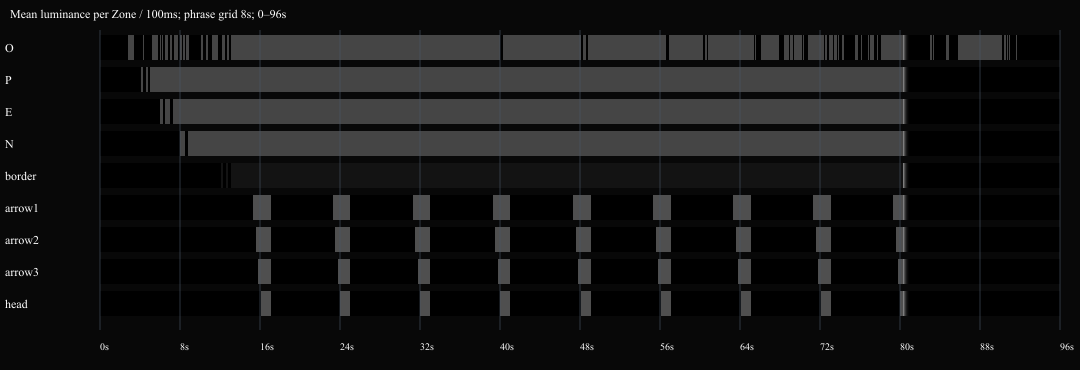
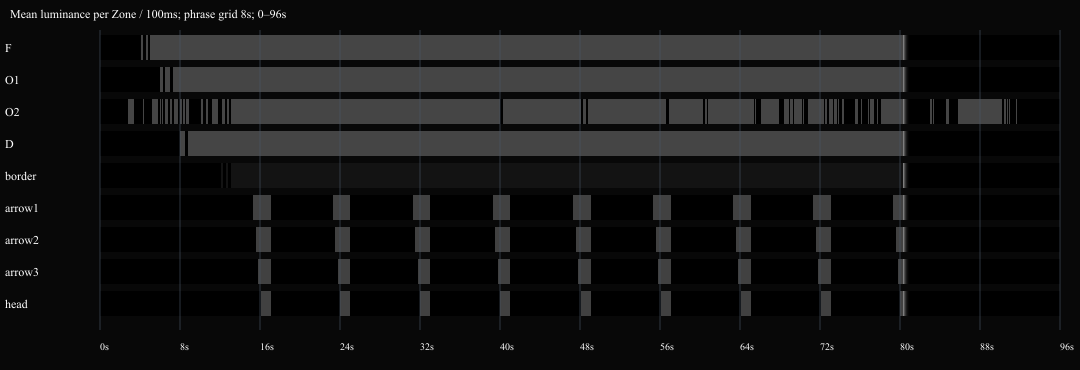
#1192 Revise the After Hours plan for the FOOD sign
Jon chose FOOD, with the second O failing, and approved the packet and
plan with NeonTube as a Show ingredient. The plan records those
decisions and takes its numbers from the prototype rebuilt on a 442-pixel
FOOD map: Zone ranges, the 46,511 B artifact, 1,338 words, 13.6% flash
area and about 16 A at 0.6 white. The storyboard and score strip are
re-rendered on that map, with the arrow at its planned 0.7 opacity, and
the FOOD legibility render replaces the OPEN and PXLBLZ ones.

X-Session-Id: claude:8e608997-73e9-5fdd-bdb2-087bd00eb483

diff --git a/docs/plans/after-hours-show.md b/docs/plans/after-hours-show.md
@@ -1,17 +1,19 @@
 # After Hours: Visual Direction Packet and Visual Performance Plan
 
-Design proposal for #1192 (parent #1191), awaiting Jon's approval. Nothing here
-is as-built: no stock map, Pattern or Show builder change lands under #1192. The
-build is a separate `work:implementation` child cut from the approved plan.
+Design for #1192 (parent #1191), approved by Jon with the
+[decisions](#decisions) below. Nothing here is as-built: no stock map, Pattern
+or Show builder change lands under #1192. The build is a separate
+`work:implementation` child cut from this plan.
 
-**Recommendation in one paragraph.** Build After Hours as an Installation Show on
-a new 2D sign map reading **OPEN**, with the **O** as the failing letter. The
-sign is nine physical Zones (four letters, a border of bulbs, three arrow-shaft
-segments and an arrow head) driven by three Pattern instances: one shared steady
-tube, one private failing tube, and one stepped LumaMarquee chase. Every event
-is a property-track key inside Clips that span the whole Show, so it compiles to
-one time section with no Transition; the short is a white color-map keyed on
-every Clip. One new Pattern, NeonTube, is needed. The measured budgets are in the [cost envelope](#cost-envelope).
+**The design in one paragraph.** Build After Hours as an Installation Show on a
+new 2D sign map reading **FOOD**, with the **second O** as the failing letter.
+The sign is nine physical Zones (four letters, a border of bulbs, three
+arrow-shaft segments and an arrow head) driven by three Pattern instances: one
+shared steady tube, one private failing tube, and one stepped LumaMarquee chase.
+Every event is a property-track key inside Clips that span the whole Show, so it
+compiles to one time section with no Transition; the short is a white color-map
+keyed on every Clip. One new Pattern, NeonTube, is needed. The measured budgets
+are in the [cost envelope](#cost-envelope).
 
 The packet refines the ideation draft recorded in #1192 rather than restarting
 it; [what changed](#what-changed-from-the-draft) lists each refinement.
@@ -108,13 +110,13 @@ lamp igniting alone.
 
 | Section | Phrases | Time | What happens |
 | --- | --- | --- | --- |
-| Dark and warm-up | 1-2 | 0-16 s | 2 s of black. The O sputters first; P, E and N ignite cleanly on successive bars; the border ignites and starts its chase; the O, out of turn, is the last letter to catch. The arrow's first firing lands on the 16 s downbeat: the sign is open. |
+| Dark and warm-up | 1-2 | 0-16 s | 2 s of black. The second O sputters first; F, the first O and D ignite cleanly on successive bars, skipping its turn; the border ignites and starts its chase; the second O is the last letter to catch. The arrow's first firing lands on the 16 s downbeat: the diner is open. |
 | Steady | 3-5 | 16-40 s | The ordinary frame. The arrow fires each phrase; nothing else happens. |
-| Hint | 6-7 | 40-56 s | At the arrow's tip the O drops out for one step; next phrase, twice. Short enough to doubt. |
-| Failure | 8-10 | 56-80 s | Three held stages. First the dips become bursts, still on the arrow's beat. Then the arrow fires and the O does not answer; it fails on its own time, off the grid. Then it arcs, broken more than lit. Then it steadies: for a moment the sign is whole. |
+| Hint | 6-7 | 40-56 s | At the arrow's tip the second O drops out for one step; next phrase, twice. Short enough to doubt. |
+| Failure | 8-10 | 56-80 s | Three held stages. First the dips become bursts, still on the arrow's beat. Then the arrow fires and the second O does not answer; it fails on its own time, off the grid. Then it arcs, broken more than lit. Then it steadies: for a moment the sign is whole. |
 | The short | at 80 s | 80-81 s | The arrow's last firing reaches its tip and the whole sign flashes white and dies. The only white and the only simultaneous event. |
-| Afterglow | 11 | 81-92 s | About 2 s of black. The O alone buzzes back, catches and holds a breath, then stutters out. |
-| Out | 12 | 92-96 s | Black. The loop restarts with the O, the first to try again: the survivor is first and last. |
+| Afterglow | 11 | 81-92 s | About 2 s of black. The second O alone buzzes back, catches and holds a breath, then stutters out. |
+| Out | 12 | 92-96 s | Black. The loop restarts with the second O, the first to try again: the survivor is first and last. |
 
 ### Invariants
 
@@ -205,7 +207,7 @@ column scores this packet.
 | Motion grammar | 2 | 3 | The arrow becomes the fault's fuse, so march and fail interlock instead of running side by side. One verb serves ignition, failure, the short and the return. |
 | Temporal form | 2 | 3 | Cause, then decoupling, arcing, false recovery, the short and the return, with the survivor closing the loop seam. The draft's failure escalated without a cause. |
 | Restraint | 2 | 3 | Healthy lamps are dead steady and white happens once. The breathing texture and the sag are gone. |
-| Ordinary frame | 3 | 3 | Iconic: the steady frame is the archetypal lit OPEN sign, and the afterglow's lone ring reads as a symbol. Both read in the storyboard's prototype renders. |
+| Ordinary frame | 3 | 3 | Iconic: the steady frame is the archetypal roadside FOOD sign, and the afterglow's lone ring reads as a symbol. Both read in the storyboard's prototype renders. |
 | Surprise | 3 | 3 | The broken letter survives the healthy ones; the false recovery sharpens the rupture, and the return closes it. |
 
 ### What changed from the draft
@@ -226,31 +228,30 @@ column scores this packet.
    phrases.
 10. The storyboard adds the short.
 
-## Decisions for Jon
+## Decisions
 
-These halt the build until Jon answers them on #1192.
+Jon decided these on #1192 before the build child was cut.
 
-1. **The sign word.** I recommend **OPEN**, with the **O** failing.
-   - OPEN is the archetypal neon word, so the steady frame reads as "a neon
-     sign" at once, and an OPEN sign after hours is the title's joke.
-   - A lone O ring is the strongest survivor silhouette: a closed shape that
-     reads as a symbol on its own, not a fragment of a word.
-   - Four letters get 60 to 72 pixels each at 463 pixels in total, which leaves
+1. **The sign word is FOOD, with the second O failing.** Jon chose FOOD because
+   it is emblematic of the highway, the open road, diners and Americana.
+   - The steady frame reads as a roadside diner sign at once.
+   - The failing letter is third in reading order, so the warm-up visibly skips
+     its turn: F, the first O and D ignite on successive bars while the second
+     O still sputters. The healthy first O beside it is a control sample.
+   - The survivor is a lone O ring, the strongest survivor silhouette: a closed
+     shape that reads as a symbol on its own, not a fragment of a word.
+   - Four letters get 50 to 67 pixels each at 442 pixels in total, which leaves
      frame-rate headroom.
-   - The cost: the O is first in reading order, so its break is in completion,
-     not in start. It starts in turn and catches last. A middle letter would
-     break the order more visibly but leave a weaker survivor.
-   - The alternative is **PXLBLZ**: a self-portrait and booth piece, 560 pixels
-     at the same stroke density. A failing **Z** gives a zigzag survivor and a
-     sleep-and-spark pun; the draft's second **L** gives the healthy twin as a
-     control sample but the weakest lone silhouette. The legibility renders,
-     `docs/plans/images/after-hours-open-legibility.png` and
-     `docs/plans/images/after-hours-pxlblz-legibility.png`, show both words.
-2. **Approval of the packet and this plan** before the build child is cut.
-3. **NeonTube's home.** I recommend a Show ingredient, kept in the Pattern rail
-   and out of the Gallery like the Luma family. Alone it is one grey tube, and
-   its character comes from the Show's Health envelope. Its Health control
-   still serves builders' own Shows.
+   - The alternatives were **OPEN** with its O failing, the archetypal neon
+     word, whose failing letter is first in reading order and so breaks the
+     order only in completion; and **PXLBLZ**, a self-portrait at 560 pixels
+     with a failing Z or second L. The legibility render,
+     `docs/plans/images/after-hours-food-legibility.png`, draws the FOOD map.
+2. **The packet and this plan are approved.** The build child is cut from them.
+3. **NeonTube is a Show ingredient**, kept in the Pattern rail and out of the
+   Gallery like the Luma family. Alone it is one grey tube, and its character
+   comes from the Show's Health envelope. Its Health control still serves
+   builders' own Shows.
 
 ## Visual Performance Plan
 
@@ -268,7 +269,7 @@ costs. The [probe record](#probe-record) has the commands and raw results.
 
 - **Artifact:** an Installation Show in the Installations collection, with an
   installation output contract on a new stock 2D map (working id
-  `after-hours-sign`) at exactly 463 pixels.
+  `after-hours-sign`) at exactly 442 pixels.
 - **Duration:** 96 s, a deterministic loop.
 - **Controller:** Pixelblaze 3 (pb32 class, firmware 3.67, the hardware behind
   the measured anchors). Exploratory, but specified so it can be built as a
@@ -277,13 +278,13 @@ costs. The [probe record](#probe-record) has the commands and raw results.
 
 | Zone | Lamp | Index range | Pixels |
 | --- | --- | ---: | ---: |
-| O | letter tube | 0-59 | 60 |
-| P | letter tube | 60-119 | 60 |
-| E | letter tubes (outline, then middle arm) | 120-185 | 66 |
-| N | letter tube | 186-257 | 72 |
-| border | 141 bulbs, clockwise from top left | 258-398 | 141 |
-| arrow1, arrow2, arrow3 | shaft segments, tail first | 399-446 | 16 each |
-| head | chevron | 447-462 | 16 |
+| F | letter tubes (top and stem, then middle arm) | 0-49 | 50 |
+| O1 | letter tube | 50-109 | 60 |
+| O2 | letter tube, the failing letter | 110-169 | 60 |
+| D | letter tube | 170-236 | 67 |
+| border | 141 bulbs, clockwise from top left | 237-377 | 141 |
+| arrow1, arrow2, arrow3 | shaft segments, tail first | 378-425 | 16 each |
+| head | chevron | 426-441 | 16 |
 
 **Map layout.** The word is drawn in a single-stroke tube font with the letter
 box 1.0 high and 0.7 wide, letters 0.25 apart. Pixels sit at a uniform pitch of
@@ -351,8 +352,8 @@ controls, Health and Seed.
   blue. Measured: exactly every third bulb is lit, and the lit set advances one
   index per step.
 - **The short:** a second, white color-map on every Clip. Its amount jumps to 1
-  at 80.25 s. Then opacity decays on a cubic-out curve to 0 by 81.05 s; on the O,
-  the white amount decays instead, so the O can return. There is no Transition.
+  at 80.25 s. Then opacity decays on a cubic-out curve to 0 by 81.05 s; on the
+  second O, the white amount decays instead, so it can return. There is no Transition.
 - **Colour:** tint color-maps from black to the colour. Letters run to
   (1, 0.08, 0.02); furniture to (0.16, 0.36, 1) at opacity 0.6 for the border
   and 0.7 for the arrow. By Rec. 709 luminance both stay below the word: 0.22
@@ -360,14 +361,14 @@ controls, Health and Seed.
   wrong for colour: it would erase the tube's on and off and the chase's bulbs.
 - **The short's white** is the one solid color-map, (0.6, 0.6, 0.6). Erasing
   the source is its job: at amount 1, every pixel of every lamp turns white at
-  once, the unlit bulbs and the dark O included.
+  once, the unlit bulbs and the dark second O included.
 
 ### State and identity plan
 
 | Instance | Pattern | Serves | Why it has its own identity |
 | --- | --- | --- | --- |
-| `tube` | NeonTube, Health 1 | P, E, N, arrow1-3, head | Shared: these lamps have no private state, and their timing lives on their Clips |
-| `weak` | NeonTube, Seed 0.37, Health track | O | Private: its Health is the story |
+| `tube` | NeonTube, Health 1 | F, O1, D, arrow1-3, head | Shared: these lamps have no private state, and their timing lives on their Clips |
+| `weak` | NeonTube, Seed 0.37, Health track | O2 | Private: its Health is the story |
 | `chase` | LumaMarquee, stepped 250 ms | border | Its own clock is the grid |
 
 There is one Clip per Zone on its Main Layer. All nine Clips span the whole 96
@@ -379,12 +380,12 @@ s, and every track is active for its Clip's lifetime, so the Show compiles to
 | Ledger | Budget | Planned peak | Evidence or uncertainty |
 | --- | ---: | ---: | --- |
 | Pattern/source bytes | none set | NeonTube about 0.6 KB | Probe source |
-| Production artifact bytes | 68,384 B activation proxy (`test/perf-harness/issue514.test.ts`) | 46,615 B | Measured. Bytes barely depend on pixel count: 45,936 B at 286 pixels |
-| Globals and array words | 256 globals; 10,240 words | 116 globals; 1,401 (8,839 remaining) words | Measured |
-| Render-target words | 3 × (N + 4) | 1,401 at 463 pixels | Ledger formula, `src/engine/showVmResourceLedger.ts:3-8` |
-| Active Pattern evaluations | 5 renderers per pixel | 1 per pixel, always: 463 per frame | Score structure: no Transition, no overlay Layer |
+| Production artifact bytes | 68,384 B activation proxy (`test/perf-harness/issue514.test.ts`) | 46,511 B | Measured. Bytes barely depend on pixel count: earlier prototype maps measured 46,615 B at 463 pixels and 45,936 B at 286 pixels |
+| Globals and array words | 256 globals; 10,240 words | 116 globals; 1,338 (8,902 remaining) words | Measured |
+| Render-target words | 3 × (N + 4) | 1,338 at 442 pixels | Ledger formula, `src/engine/showVmResourceLedger.ts:3-8` |
+| Active Pattern evaluations | 5 renderers per pixel | 1 per pixel, always: 442 per frame | Score structure: no Transition, no overlay Layer |
 | Expensive operations per active pixel | none set | Two color-maps and an opacity per pixel; LumaMarquee's crest on the 141 border pixels; NeonTube writes a constant | Score structure |
-| Frame time or FPS | 15 FPS working floor (proposed) | About 20-35 FPS estimated | Estimate, not a measurement. It scales the per-pixel cost of measured pb32 anchors (Vignette 63.5 / 16.4 / 8.2 FPS at 256 / 1,000 / 2,000 pixels; simple Shows 38-40 FPS at 256 pixels; output alone about 30 µs per pixel) to 463 pixels with one evaluation each. `npm run devbench` in the build replaces it |
+| Frame time or FPS | 15 FPS working floor (proposed) | About 20-35 FPS estimated | Estimate, not a measurement. It scales the per-pixel cost of measured pb32 anchors (Vignette 63.5 / 16.4 / 8.2 FPS at 256 / 1,000 / 2,000 pixels; simple Shows 38-40 FPS at 256 pixels; output alone about 30 µs per pixel) to 442 pixels with one evaluation each. `npm run devbench` in the build replaces it |
 
 **Marginal costs**, measured on a synthetic nine-Zone Installation of 583
 pixels:
@@ -408,12 +409,12 @@ Show adds two boundaries.
 - about 4 KB for Effects.
 
 The arrow is the most expensive voice, at about 12 KB for 80 keys and four
-tracks. The headroom under the activation proxy is 21,769 B, about 180
+tracks. The headroom under the activation proxy is 21,873 B, about 180
 more keys.
 
 **Flash limit.** Measured with the harness algorithm at 30 fps
 (`src/agent-harness/telemetry/harness.ts`).
-- The worst one-second window has 13.0% of the pixels flashing above 3 Hz,
+- The worst one-second window has 13.6% of the pixels flashing above 3 Hz,
   against the 25% limit.
 - The fault flickers fast, but only inside one letter, so it stays under the
   area limit by construction.
@@ -429,15 +430,15 @@ no Clip edge, Transition or partial track window falls inside the Show.
 
 | Section | Time | Mechanism |
 | --- | --- | --- |
-| Dark and warm-up | 0-16 s | The O's Health keys start its sputter at 2 s, and it catches at 13 s. Held opacity keys ignite P at 4 s, E at 6 s, N at 8 s and the border at 12-13 s. The chase runs from its first lit step. The first arrow firing runs 15.25-16 s. |
+| Dark and warm-up | 0-16 s | O2's Health keys start its sputter at 2 s, and it catches at 13 s. Held opacity keys ignite F at 4 s, O1 at 6 s, D at 8 s and the border at 12-13 s. The chase runs from its first lit step. The first arrow firing runs 15.25-16 s. |
 | Steady | 16-40 s | Only the arrow's opacity keys, with tips at 24 and 32 s. |
-| Hint | 40-56 s | The O's Health drops to 0 for one step at the 40 s tip; at 48 s it drops out twice, a step apart. |
+| Hint | 40-56 s | O2's Health drops to 0 for one step at the 40 s tip; at 48 s it drops out twice, a step apart. |
 | Failure | 56-80 s | Held Health stages. Bursts on the beat at 56 and 60 s. The 64 s firing gets no answer, and bursts follow off the grid at 65.37, 67.83 and 70.24 s. Arcing from 72 to 78 s, recovery at 78 s, and the last firing at 79.25-80 s. |
-| The short | 80.25-81.05 s | The white color-map amount goes to 1 on every Clip; opacity (on the O, the white amount) decays to 0 on a cubic-out curve. Under the white, the O's Health drops to 0, so the O fades to black with the rest. The arrow's tip lights one step before the short, as its cause. |
-| Afterglow and out | 81.05-96 s | Only the O's Health keys: buzz from 83 s, catch at 85.75 s, hold to 90 s, stutter out by 92 s. Every other Clip sits at opacity 0. |
+| The short | 80.25-81.05 s | The white color-map amount goes to 1 on every Clip; opacity (on O2, the white amount) decays to 0 on a cubic-out curve. Under the white, O2's Health drops to 0, so O2 fades to black with the rest. The arrow's tip lights one step before the short, as its cause. |
+| Afterglow and out | 81.05-96 s | Only O2's Health keys: buzz from 83 s, catch at 85.75 s, hold to 90 s, stutter out by 92 s. Every other Clip sits at opacity 0. |
 
-At the loop seam, 92-96 s plus 0-2 s gives six seconds of black. The O is the
-last lamp out and the first to sputter.
+At the loop seam, 92-96 s plus 0-2 s gives six seconds of black. The second O is
+the last lamp out and the first to sputter.
 
 ### Expensive purchases
 
@@ -477,8 +478,8 @@ to the full score.
   afterglow.
 - **`npm run devbench` FPS** on a pb32, at or above the 15 FPS floor.
 - **Hardware notes:** the tuning of neon red, and the short's current draw.
-  At the commonly quoted 60 mA per pixel at full white, 463 pixels at 0.6 white
-  draw about 17 A.
+  At the commonly quoted 60 mA per pixel at full white, 442 pixels at 0.6 white
+  draw about 16 A.
 
 ### Fallback ladder
 
@@ -535,7 +536,7 @@ score, are posted on #1192.
 | V4: V2 plus eight opacity tracks, 20 keys each | 35,730 | 59 | 1,761 | 1 |
 | V5: V4 (20 keys) plus a whole-output fade-color short | 57,700 | 89 | 1,761 | 2 |
 | V6: V4 (20 keys) plus a white color-map short | 45,548 | 82 | 1,761 | 1 |
-| V7: V4 (20 keys) with P's Clip split at 40 s | 44,266 | 59 | 1,761 | 2 |
+| V7: V4 (20 keys) with one letter's Clip split at 40 s | 44,266 | 59 | 1,761 | 2 |
 | V8: V4 (20 keys) with the arrow as one Zone | 26,136 | 59 | 1,761 | 1 |
 
 V5 was refused in the specified shape: the incoming Clip had to start at the
@@ -566,24 +567,24 @@ Transition's end (80.8 s), and the outgoing tracks had to run through it.
 
 **Storyboard.** Rendered from the probe prototype, not captured from the real Stage. The
 frames are fast-replay pixel output from the production compiler, drawn as dots
-at the draft map's coordinates. Unlit pixels are drawn as dim grey outlines so
-the sign's shape stays visible, and the soft glow is illustrative. The arrow
-renders at the prototype's opacity of 0.85, before the plan lowered it to 0.7.
-Real-Stage captures belong to the build.
+at the FOOD map's coordinates. Unlit pixels are drawn as dim grey outlines so
+the sign's shape stays visible, and the soft glow is illustrative. Real-Stage
+captures belong to the build.
 
-- **Warm-up (6.1 s):** P and E are lit, and N is still dark. The O, first in
-  turn, is caught in an off phase of its sputter.
+- **Warm-up (8.1 s):** F, the first O and D are lit. The second O, whose turn
+  the order skipped, is caught in an off phase of its sputter.
 - **Steady (28 s):** the whole word, the chase one bulb in three, the arrow
   dark. This is the ordinary frame.
 - **Arrow firing (23.75 s):** the shaft is lit, and the tip comes next.
-- **First hint (40.125 s):** the arrow's tip is lit and the O is dark: cause and
-  effect in one frame.
-- **Failure (65.4 s):** the word with the O dark. The arrow is dark, and the
+- **First hint (40.125 s):** the arrow's tip is lit and the second O is
+  dark: cause and effect in one frame.
+- **Failure (65.4 s):** the word with the second O dark: FO D. The arrow is dark, and the
   furniture carries on.
 - **The short (80.3 s):** the whole sign in white, already decaying.
-- **Afterglow (87 s):** the O alone.
+- **Afterglow (87 s):** the second O alone.
 
 The score strip plots each Zone's mean brightness over the full 96 s on the
 phrase grid. Images: `docs/plans/images/after-hours-storyboard.png` and
-`docs/plans/images/after-hours-score-strip.png`. The legibility renders draw
-both candidate maps with every point lit, at the same stroke pitch.
+`docs/plans/images/after-hours-score-strip.png`. The legibility render,
+`docs/plans/images/after-hours-food-legibility.png`, draws the FOOD map with
+every point lit.
